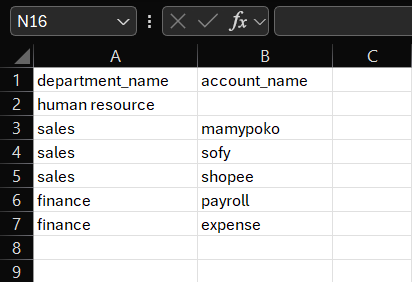
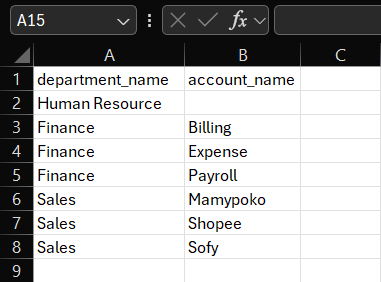
Add employee template preview

Changed region(s): [[0.0, 0.0, 1.0, 1.0]]

diff --git a/frontend/src/app/components/admin-dashboard.tsx b/frontend/src/app/components/admin-dashboard.tsx
@@ -201,6 +201,8 @@ export function AdminDashboard({ currentUser }: AdminDashboardProps) {
   const [isTemplatePreviewOpen, setIsTemplatePreviewOpen] = useState(false);
   const [isRolesTemplatePreviewOpen, setIsRolesTemplatePreviewOpen] =
     useState(false);
+  const [isEmployeesTemplatePreviewOpen, setIsEmployeesTemplatePreviewOpen] =
+    useState(false);
 
   const [isAddRoleOpen, setIsAddRoleOpen] = useState(false);
   const [newRoleDepartmentName, setNewRoleDepartmentName] = useState("");
@@ -1379,10 +1381,11 @@ export function AdminDashboard({ currentUser }: AdminDashboardProps) {
                   </CardDescription>
                 </div>
                 <Button
-                  onClick={() => setIsAddEmployeeOpen(true)}
+                  size="sm"
                   className="gap-2"
+                  onClick={() => setIsAddEmployeeOpen(true)}
                 >
-                  <UserPlus className="size-4" />
+                  <Plus className="size-4" />
                   Add Employee
                 </Button>
               </div>
@@ -2072,15 +2075,10 @@ export function AdminDashboard({ currentUser }: AdminDashboardProps) {
                     variant="outline"
                     size="sm"
                     className="gap-2"
-                    onClick={() =>
-                      downloadImportTemplate(
-                        "employees",
-                        "full_name,nickname,email,contact_number,joined_date,status",
-                      )
-                    }
+                    onClick={() => setIsEmployeesTemplatePreviewOpen(true)}
                   >
                     <Download className="size-4" />
-                    Template
+                    View Template
                   </Button>
 
                   <Button
@@ -2108,13 +2106,12 @@ export function AdminDashboard({ currentUser }: AdminDashboardProps) {
                       e.currentTarget.value = "";
                     }}
                   />
-
                   <Button
                     size="sm"
                     className="gap-2"
                     onClick={() => setIsAddEmployeeOpen(true)}
                   >
-                    <UserPlus className="size-4" />
+                    <Plus className="size-4" />
                     Add Employee
                   </Button>
                 </div>
@@ -3312,7 +3309,45 @@ export function AdminDashboard({ currentUser }: AdminDashboardProps) {
           </DialogFooter>
         </DialogContent>
       </Dialog>
+      {/* Employee Template Preview Dialog */}
+      <Dialog
+        open={isEmployeesTemplatePreviewOpen}
+        onOpenChange={setIsEmployeesTemplatePreviewOpen}
+      >
+        <DialogContent className="sm:max-w-xl">
+          <DialogHeader>
+            <DialogTitle>Employee Data CSV Template</DialogTitle>
+            <DialogDescription>
+              Your CSV must use exactly these columns. This creates basic
+              employee profiles only.
+            </DialogDescription>
+          </DialogHeader>
 
+          <div className="rounded border overflow-hidden bg-white">
+            <img
+              src="/employees-template.png"
+              alt="Employee Data CSV template preview"
+              className="w-full h-auto"
+            />
+          </div>
+
+          <div className="text-sm text-gray-600 space-y-1">
+            <p>Required columns: full_name, nickname, email, contact_number.</p>
+            <p>
+              Accepted: inactive employee with same email will be reactivated.
+            </p>
+            <p>
+              Rejected: active duplicate email or duplicate email inside CSV.
+            </p>
+          </div>
+
+          <DialogFooter>
+            <Button onClick={() => setIsEmployeesTemplatePreviewOpen(false)}>
+              Close
+            </Button>
+          </DialogFooter>
+        </DialogContent>
+      </Dialog>
       {/* Roles Template Preview Dialog */}
       <Dialog
         open={isRolesTemplatePreviewOpen}
